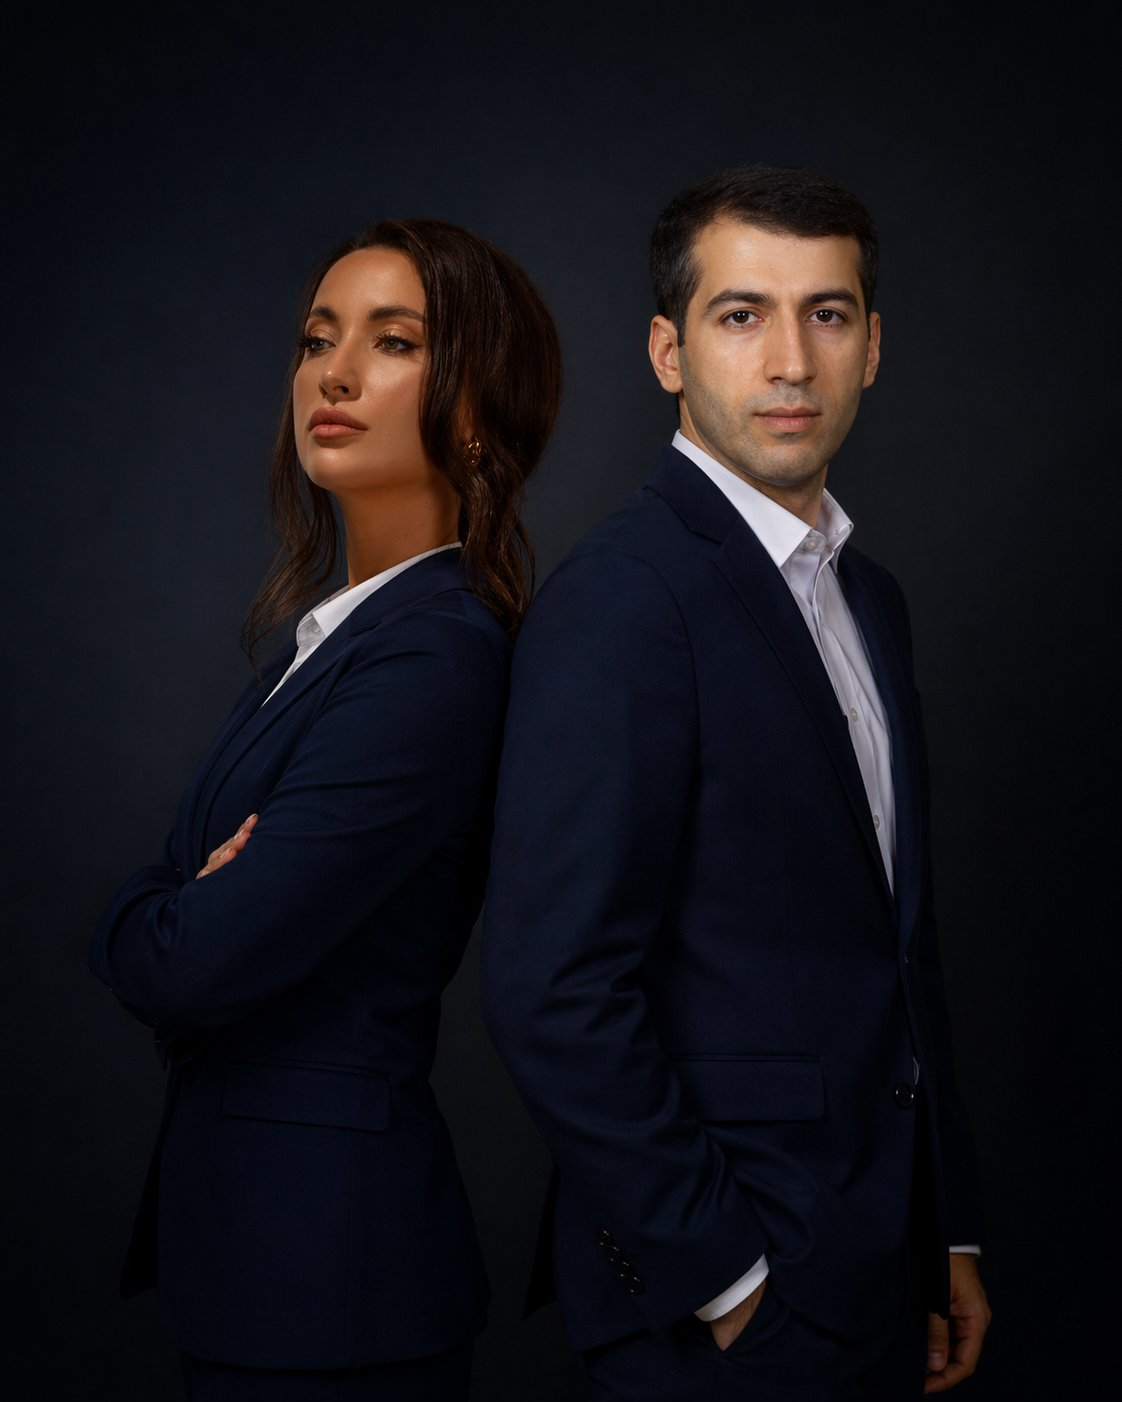
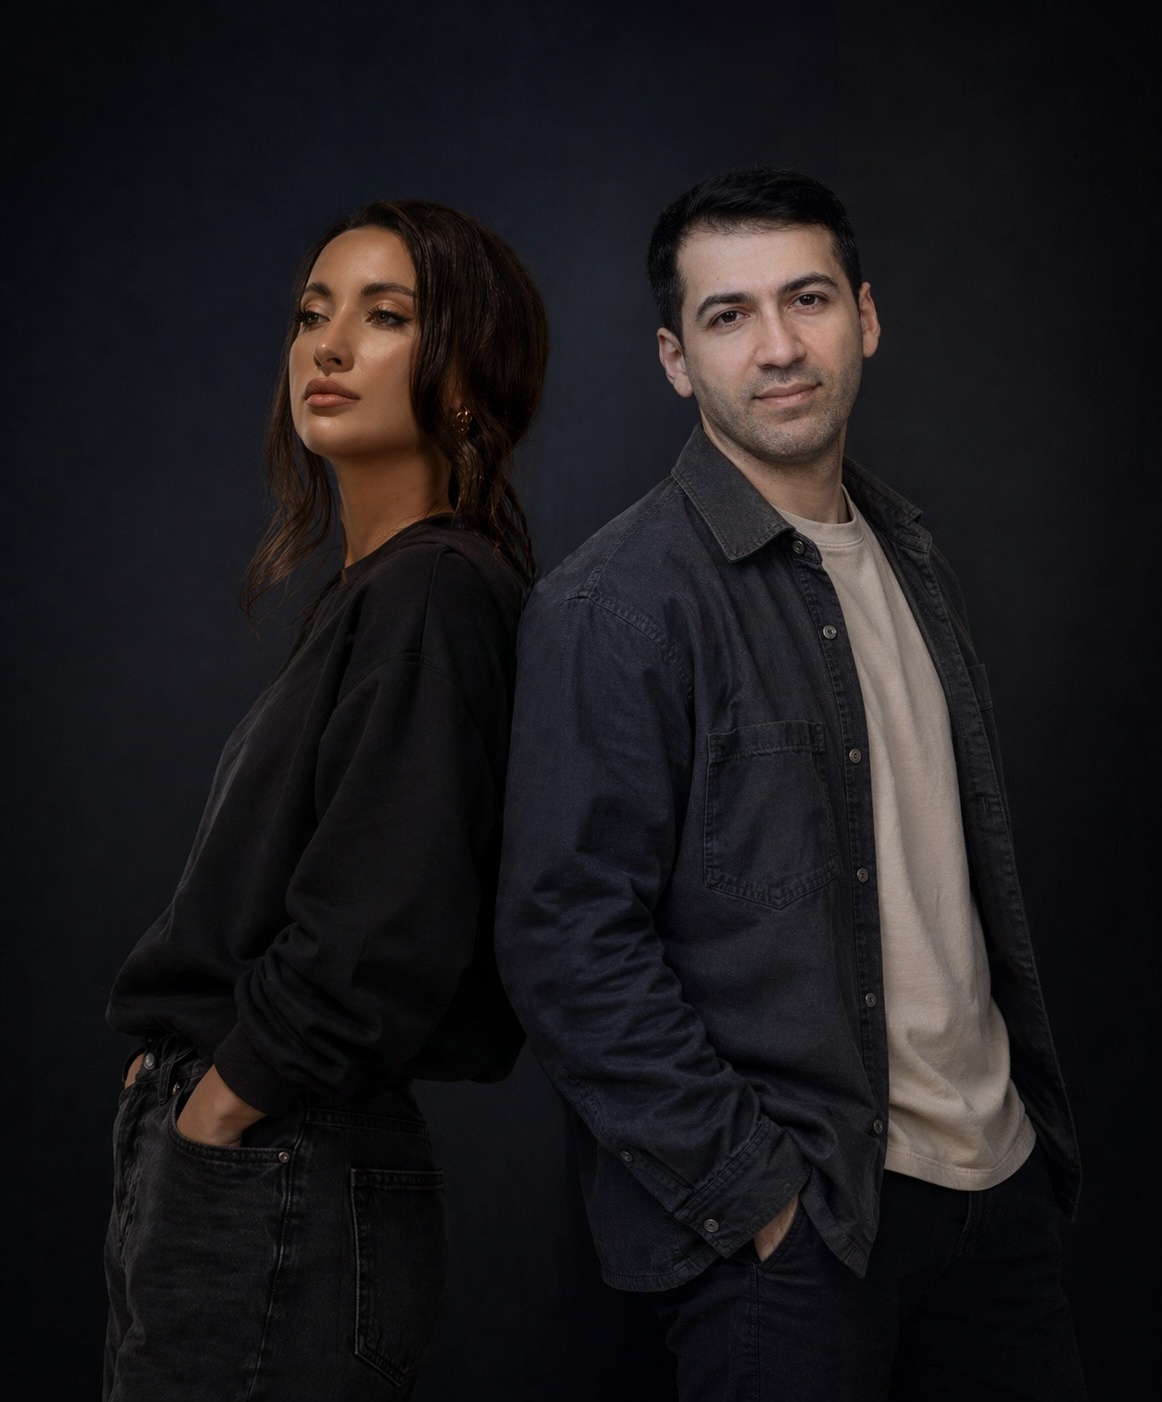
Replace team photo, fix co-founder name to Sarkhan

diff --git a/lib/i18n/ru.ts b/lib/i18n/ru.ts
@@ -78,7 +78,7 @@ const ru: Dict = {
     badge: "Со-основатели",
     titleLine1: "Два со-основателя.",
     titleLine2: "Одна сильная команда.",
-    p1: "Мы — Ника и Сархам, со-основатели Niksar. Мы работаем не одни — у нас сплочённая команда разработчиков, дизайнеров, проджект-менеджеров и QA, которая ведёт каждый проект от старта до релиза.",
+    p1: "Мы — Ника и Сархан, со-основатели Niksar. Мы работаем не одни — у нас сплочённая команда разработчиков, дизайнеров, проджект-менеджеров и QA, которая ведёт каждый проект от старта до релиза.",
     p2: "Наш подход — без бюрократии. Прямая коммуникация, быстрые итерации, фокус на том, что действительно важно для вашего продукта — выпустить его вовремя и качественно.",
     p3: "Каждый проект для нас — это больше чем код. Это продукт, которым мы гордимся и хотим показать другим.",
     founder1Role: "Со-основательница",

diff --git a/lib/i18n/uk.ts b/lib/i18n/uk.ts
@@ -78,7 +78,7 @@ const uk: Dict = {
     badge: "Співзасновники",
     titleLine1: "Два співзасновники.",
     titleLine2: "Одна сильна команда.",
-    p1: "Ми — Ніка і Сархам, співзасновники Niksar. Ми працюємо не самі — у нас згуртована команда розробників, дизайнерів, проджект-менеджерів та QA, яка веде кожен проект від старту до релізу.",
+    p1: "Ми — Ніка і Сархан, співзасновники Niksar. Ми працюємо не самі — у нас згуртована команда розробників, дизайнерів, проджект-менеджерів та QA, яка веде кожен проект від старту до релізу.",
     p2: "Наш підхід — без бюрократії. Пряма комунікація, швидкі ітерації, фокус на тому, що дійсно важливо для вашого продукту — випустити його вчасно і якісно.",
     p3: "Кожен проект для нас — це більше ніж код. Це продукт, яким ми пишаємось і хочемо показати іншим.",
     founder1Role: "Співзасновниця",

diff --git a/components/About.tsx b/components/About.tsx
@@ -26,7 +26,7 @@ export default function About() {
           <div className="mt-8 flex gap-8 border-t border-white/10 pt-8">
             {[
               { initial: "N", name: "Nika", role: t.about.founder1Role },
-              { initial: "S", name: "Sarkham", role: t.about.founder2Role },
+              { initial: "S", name: "Sarkhan", role: t.about.founder2Role },
             ].map((f) => (
               <div key={f.name} className="flex items-center gap-3">
                 <span className="flex h-10 w-10 items-center justify-center rounded-full border border-white/15 bg-white/5 font-serif text-sm text-white">
@@ -45,7 +45,7 @@ export default function About() {
           <div className="relative aspect-[4/5] overflow-hidden rounded-2xl border border-white/10">
             <Image
               src="/team-photo.png"
-              alt="Nika & Sarkham — co-founders of Niksar"
+              alt="Nika & Sarkhan — co-founders of Niksar"
               fill
               sizes="(max-width: 1024px) 100vw, 50vw"
               className="object-cover"

diff --git a/lib/i18n/en.ts b/lib/i18n/en.ts
@@ -77,7 +77,7 @@ const en = {
     badge: "Co-founders",
     titleLine1: "Two co-founders.",
     titleLine2: "One senior team.",
-    p1: "We're Nika & Sarkham, co-founders of Niksar. We don't work alone — we lead a tight-knit team of developers, designers, project managers, and QA engineers who deliver every project end-to-end.",
+    p1: "We're Nika & Sarkhan, co-founders of Niksar. We don't work alone — we lead a tight-knit team of developers, designers, project managers, and QA engineers who deliver every project end-to-end.",
     p2: "Our approach is no bureaucracy. Direct communication, fast iterations, and a laser focus on what actually matters for your product — shipping it well and on time.",
     p3: "Every project is more than code. It's a product we're proud of and happy to show off.",
     founder1Role: "Co-founder",
